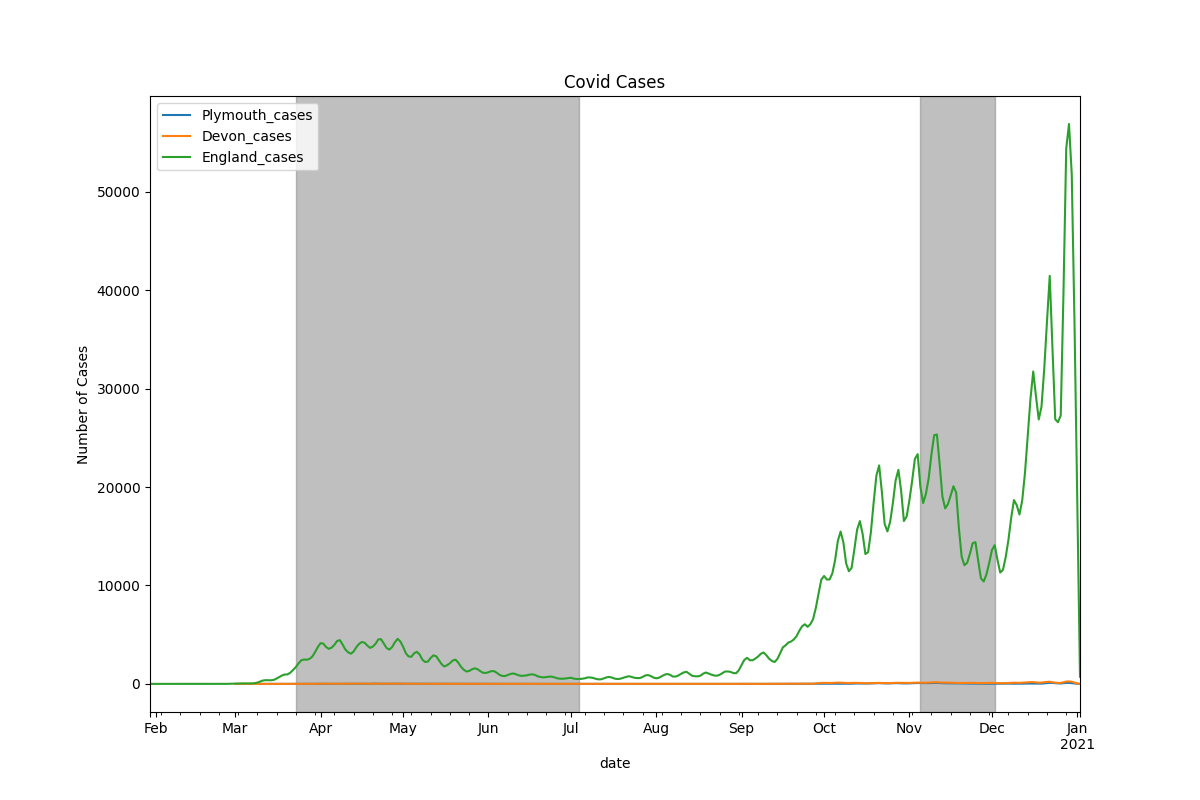
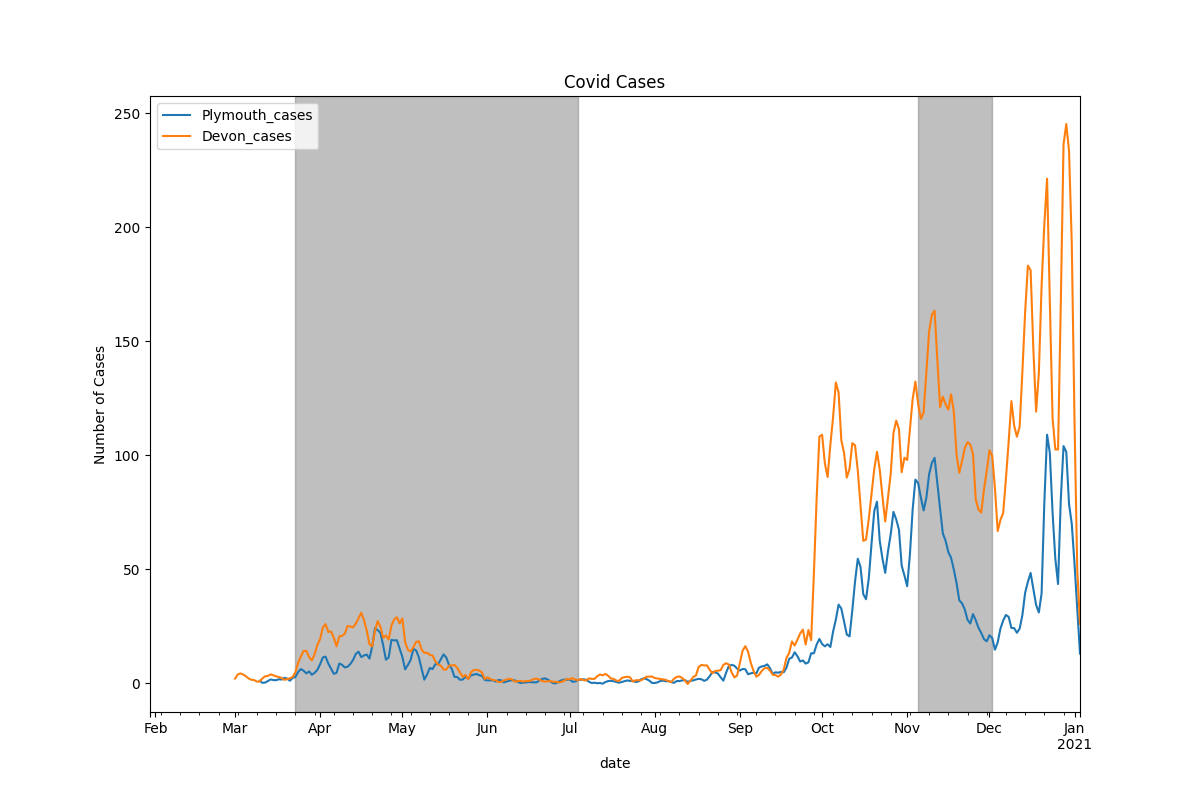
update-data

diff --git a/main.py b/main.py
@@ -12,7 +12,7 @@ import datetime
 url = {}
 population = {}
 
-lockdowns = [(datetime.date(2020,11,5),datetime.date(2020,12,2)), (datetime.date(2020,3,23),datetime.date(2020,7,4))]
+lockdowns = [(datetime.date(2021,1,5),datetime.date(2021,2,22)), (datetime.date(2020,11,5),datetime.date(2020,12,2)), (datetime.date(2020,3,23),datetime.date(2020,7,4))]
 verbose = False
 
 
@@ -52,7 +52,9 @@ def average_smoothing(y, window_size=3):
 
 def plot_data(df, highlights=lockdowns, output_figure='images/plymouth_covid_graph.png'):
 	# plt.figure()
-	df.plot(x='date', figsize=(12,8))
+	df_ = df[df.columns[~df.columns.isin(['England_cases'])]]
+
+	df_.plot(x='date', figsize=(12,8))
 	for h in highlights:
 		plt.axvspan(h[0], h[1], color='grey', alpha=0.5)
 	plt.ylabel('Number of Cases') 

diff --git a/index.md b/index.md
@@ -1,5 +1,7 @@
 # Plymouth Covid Graph
 
+Grey sections are used to identify national lockdowns, of various strengths.
+
 ![Covid Rates](images/plymouth_covid_graph.png "Plymouth Covid Graph")
 
 ![Covid Rates Per 100000](images/plymouth_covid_graph_pht.png "Plymouth Covid Graph Per 100000 ")
